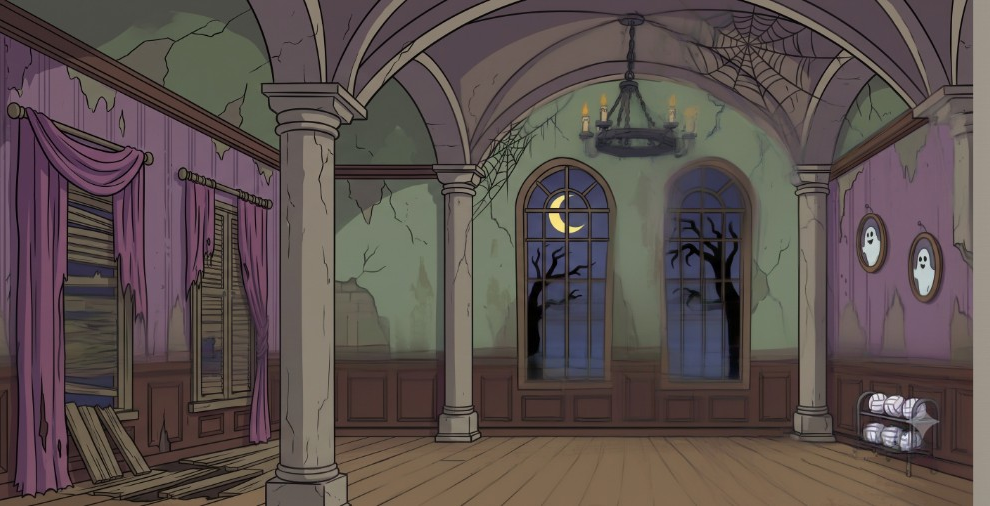
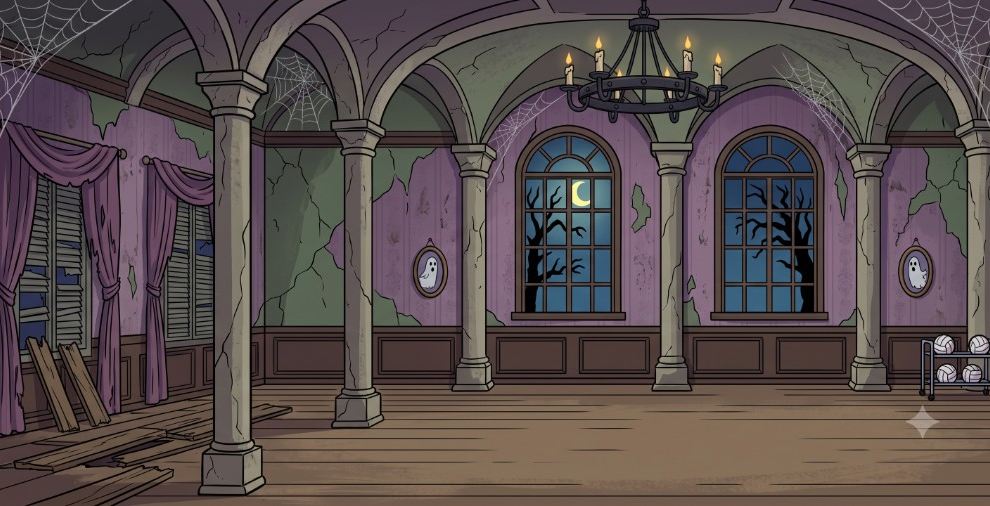
Ajoute Sammy jouable et met à jour le fond Manoir.
Sprites découpés depuis la planche Gemini ; même logique turbo/slip que Scooby. Fond intérieur remplacé (natif).

diff --git a/src/01b-assets.js b/src/01b-assets.js
@@ -7,6 +7,12 @@ const SPRITES = {
   scoobyRun: null,       // pose marche héro (fallback)
   scoobyPounce: null,    // saut / turbo
   scoobyWalk: [],        // cycle de marche 8 frames
+  samyIdle: null,
+  samyIdleSide: null,
+  samyRun: null,
+  samyPounce: null,
+  samyPanic: null,
+  samyWalk: [],
   mysteryVan: null,
   manoirBg: null,        // fond plat Le Manoir Hanté
 };
@@ -37,6 +43,16 @@ function initSprites() {
   SPRITES.scoobyWalk = [];
   for (let i = 0; i < 8; i++) {
     SPRITES.scoobyWalk.push(loadSprite(base + "walk" + i + ".png"));
+  }
+  const samy = "assets/samy/";
+  SPRITES.samyIdle = loadSprite(samy + "idle.png");
+  SPRITES.samyIdleSide = loadSprite(samy + "idle_side.png");
+  SPRITES.samyRun = loadSprite(samy + "run.png");
+  SPRITES.samyPounce = loadSprite(samy + "pounce.png");
+  SPRITES.samyPanic = loadSprite(samy + "panic.png");
+  SPRITES.samyWalk = [];
+  for (let i = 0; i < 8; i++) {
+    SPRITES.samyWalk.push(loadSprite(samy + "walk" + i + ".png"));
   }
 }
 
@@ -200,6 +216,126 @@ function drawScoobyTurboGhosts(b) {
     drawAnchoredSprite(spr, b.x - moveVx * i * 2.2, b.y, dir, 74 - i * 2, {
       alpha: 0.18 * (4 - i) / 3,
       lean: moveVx * 0.02
+    });
+  }
+  return true;
+}
+
+function samyWalkReady() {
+  const w = SPRITES.samyWalk;
+  return w.length > 0 && w.every(spriteReady);
+}
+
+function samyWalkFrame(b) {
+  const frames = SPRITES.samyWalk;
+  if (!samyWalkReady()) {
+    return spriteReady(SPRITES.samyRun) ? SPRITES.samyRun : null;
+  }
+  const idx = Math.floor(Math.abs(b.walkPhase || 0) * 0.18) % frames.length;
+  return frames[idx];
+}
+
+function samySpriteFor(b) {
+  const turbo = b.superT > 0 && b.superKind === "samy";
+  const moveVx = (b.dispVx != null && Math.abs(b.dispVx) > 0.01) ? b.dispVx : (b.vx || 0);
+  const moving = Math.abs(moveVx) > 0.35 || !!b.scramble;
+
+  if (turbo && spriteReady(SPRITES.samyPanic)) return SPRITES.samyPanic;
+  if (!b.onGround) {
+    return spriteReady(SPRITES.samyPounce) ? SPRITES.samyPounce : samyWalkFrame(b);
+  }
+  if (typeof state === "string" && state.indexOf("select") === 0 && !moving) {
+    return spriteReady(SPRITES.samyIdle) ? SPRITES.samyIdle : SPRITES.samyIdleSide;
+  }
+  if (moving) {
+    if (Math.abs(moveVx) > 2.2 && spriteReady(SPRITES.samyRun)) return SPRITES.samyRun;
+    return samyWalkFrame(b);
+  }
+  if (spriteReady(SPRITES.samyIdleSide)) return SPRITES.samyIdleSide;
+  return samyWalkFrame(b) || SPRITES.samyRun;
+}
+
+function isSamyWalkSprite(img) {
+  const w = SPRITES.samyWalk;
+  for (let i = 0; i < w.length; i++) if (w[i] === img) return true;
+  return false;
+}
+
+function drawSamySpriteMaster(b) {
+  const spr = samySpriteFor(b);
+  if (!spriteReady(spr)) return false;
+
+  const s = Math.max(0, b.squash || 0);
+  const bx = b.x, by = b.y;
+  const dir = b.side === 0 ? 1 : -1;
+  const fatigueT = (b.fatigue || 0) / FATIGUE_MAX;
+  const turbo = b.superT > 0 && b.superKind === "samy";
+  const moveVx = (b.dispVx != null && Math.abs(b.dispVx) > 0.01) ? b.dispVx : (b.vx || 0);
+  const moving = Math.abs(moveVx) > 0.35 || !!b.scramble;
+  const now = performance.now() / 1000;
+
+  let bobY = 0, lean = 0, squashX = 1, squashY = 1;
+  const walkSpr = isSamyWalkSprite(spr);
+  let baseH = 88; // Sammy est plus grand / filiforme
+  if (walkSpr) baseH = 90;
+  else if (spr === SPRITES.samyIdleSide || spr === SPRITES.samyRun) baseH = 86;
+  else if (spr === SPRITES.samyPounce || spr === SPRITES.samyPanic) baseH = 92;
+  else if (spr === SPRITES.samyIdle) baseH = 84;
+  baseH -= fatigueT * 5;
+
+  if (!b.onGround || turbo) {
+    const stretch = 1 + Math.max(-0.06, Math.min(0.12, -(b.vy || 0) * 0.01));
+    squashY = stretch;
+    squashX = 1 / Math.sqrt(stretch);
+    lean = Math.max(-0.28, Math.min(0.28, moveVx * 0.03));
+    if (turbo) bobY = Math.sin(now * 20) * 1.8;
+  } else if (moving) {
+    const phase = Math.abs(b.walkPhase || 0) * 0.18;
+    bobY = Math.sin(phase * Math.PI) * 1.4;
+    lean = moveVx * 0.018;
+  } else {
+    bobY = Math.sin(now * 2.6) * 1.0;
+    squashY = 1 + Math.sin(now * 2.6) * 0.012;
+    squashX = 1 / squashY;
+  }
+  if (s > 0) {
+    squashY *= 1 - Math.min(0.22, s * 0.035);
+    squashX *= 1 + Math.min(0.25, s * 0.04);
+  }
+
+  ctx.save();
+  drawShadow(b);
+  drawAnchoredSprite(spr, bx, by, dir, baseH, { bobY, lean, squashX, squashY });
+  if (fatigueT > 0.1) {
+    const nDrops = Math.min(6, Math.ceil(fatigueT * 7));
+    const headY = by - baseH * 0.78 + bobY;
+    for (let d = 0; d < nDrops; d++) {
+      const dropSize = 3.2 + fatigueT * 2.2;
+      const dx = bx + dir * (10 + (d % 3) * 3) * (d % 2 === 0 ? 1 : -0.8);
+      const dy = headY + Math.floor(d / 2) * 7 + Math.sin(now * 9 + d) * 1.5;
+      ctx.fillStyle = "rgba(140,205,255," + (0.6 + fatigueT * 0.25).toFixed(2) + ")";
+      ctx.beginPath();
+      ctx.moveTo(dx, dy - dropSize);
+      ctx.quadraticCurveTo(dx + dropSize * 0.6, dy, dx, dy + dropSize);
+      ctx.quadraticCurveTo(dx - dropSize * 0.6, dy, dx, dy - dropSize);
+      ctx.fill();
+    }
+  }
+  ctx.restore();
+  return true;
+}
+
+function drawSamyTurboGhosts(b) {
+  const spr = spriteReady(SPRITES.samyPanic) ? SPRITES.samyPanic
+    : (spriteReady(SPRITES.samyRun) ? SPRITES.samyRun
+      : (samyWalkReady() ? SPRITES.samyWalk[0] : null));
+  if (!spriteReady(spr)) return false;
+  const dir = b.side === 0 ? 1 : -1;
+  const moveVx = b.dispVx != null ? b.dispVx : (b.vx || 0);
+  for (let i = 1; i <= 3; i++) {
+    drawAnchoredSprite(spr, b.x - moveVx * i * 2.4, b.y, dir, 80 - i * 2, {
+      alpha: 0.18 * (4 - i) / 3,
+      lean: moveVx * 0.025
     });
   }
   return true;

diff --git a/src/05-animals.js b/src/05-animals.js
@@ -14,13 +14,14 @@ function drawAnimal(b) {
   const key = A.key;
   drawSuperAura(b);                         // halo derrière l'animal
   // pendant Turbo-bond / Scooby Snack : traînée d'images fantômes
-  if (b.superT > 0 && (key === "lapin" || key === "scooby")) drawTurboGhosts(b, key);
+  if (b.superT > 0 && (key === "lapin" || key === "scooby" || key === "samy")) drawTurboGhosts(b, key);
   if (key === "oiseau") drawOiseau(b);
   else if (key === "grenouille") drawGrenouille(b);
   else if (key === "manchot") drawManchot(b);
   else if (key === "chibre") drawChibre(b);
   else if (key === "chneck") drawChneck(b);
   else if (key === "scooby") drawScooby(b);
+  else if (key === "samy") drawSamy(b);
   else drawLapin(b);
   drawSuperOverlay(b, key);                 // langue-grappin, charge de smash…
   drawEmote(b);                             // bulle d'émotion
@@ -43,6 +44,7 @@ function faceMood(b) {
   const key = animOf(b).key;
   if (key === "lapin") return "sad";
   if (key === "scooby") return "shock"; // perpétuellement inquiet (Ruh-roh !)
+  if (key === "samy") return "shock"; // Zoinks !
   if (key === "manchot") return "fierce";
   if (key === "oiseau") return "shock";
   if (key === "grenouille") return "happy";
@@ -179,6 +181,9 @@ function drawSuperAura(b) {
 
 function drawTurboGhosts(b, key) {
   if (key === "scooby" && typeof drawScoobyTurboGhosts === "function" && drawScoobyTurboGhosts(b)) {
+    return;
+  }
+  if (key === "samy" && typeof drawSamyTurboGhosts === "function" && drawSamyTurboGhosts(b)) {
     return;
   }
   ctx.save();
@@ -1361,6 +1366,52 @@ function drawLapin(b) {
 function drawScooby(b) {
   if (typeof drawScoobySpriteMaster === "function" && drawScoobySpriteMaster(b)) return;
   drawScoobyCanvas(b);
+}
+
+// Sammy : sprites PNG — sinon silhouette canvas filiforme
+function drawSamy(b) {
+  if (typeof drawSamySpriteMaster === "function" && drawSamySpriteMaster(b)) return;
+  drawSamyCanvas(b);
+}
+
+function drawSamyCanvas(b) {
+  const s = Math.max(0, b.squash);
+  const bx = b.x, by = b.y;
+  const dir = b.side === 0 ? 1 : -1;
+  const moveVx = (b.dispVx != null) ? b.dispVx : (b.vx || 0);
+  const gait = Math.sin((b.walkPhase || 0) * 1.3);
+  const bob = b.onGround && Math.abs(moveVx) > 0.3 ? gait * 3 : Math.sin(performance.now() / 240) * 1.2;
+  ctx.save();
+  drawShadow(b);
+  ctx.translate(bx, by + bob);
+  ctx.rotate(Math.max(-0.35, Math.min(0.35, moveVx * 0.04)) * dir);
+  // jambes
+  ctx.strokeStyle = "#3a2a1a"; ctx.lineWidth = 5; ctx.lineCap = "round";
+  const leg = b.onGround && Math.abs(moveVx) > 0.3 ? gait * 10 : 0;
+  ctx.beginPath(); ctx.moveTo(-6, -18 + s); ctx.lineTo(-8 - leg, 0); ctx.stroke();
+  ctx.beginPath(); ctx.moveTo(6, -18 + s); ctx.lineTo(8 + leg, 0); ctx.stroke();
+  // short brun
+  ctx.fillStyle = "#7a4a2a";
+  ctx.fillRect(-14, -40 + s, 28, 22);
+  // t-shirt vert
+  ctx.fillStyle = b.color || "#6b8f3c";
+  ctx.beginPath();
+  ctx.moveTo(-16, -78 + s); ctx.lineTo(-18, -40 + s); ctx.lineTo(18, -40 + s); ctx.lineTo(16, -78 + s);
+  ctx.closePath(); ctx.fill();
+  // bras
+  ctx.strokeStyle = "#e7c4a0"; ctx.lineWidth = 4;
+  const arm = b.onGround && Math.abs(moveVx) > 0.3 ? -gait * 12 : 4;
+  ctx.beginPath(); ctx.moveTo(-14, -70 + s); ctx.lineTo(-22, -50 + s + arm); ctx.stroke();
+  ctx.beginPath(); ctx.moveTo(14, -70 + s); ctx.lineTo(22, -50 + s - arm); ctx.stroke();
+  // tête
+  ctx.fillStyle = "#e7c4a0";
+  ctx.beginPath(); ctx.ellipse(0, -92 + s, 12, 14, 0, 0, Math.PI * 2); ctx.fill();
+  // cheveux
+  ctx.fillStyle = "#6b4a2a";
+  ctx.beginPath(); ctx.ellipse(0, -100 + s, 14, 10, 0, Math.PI, 0); ctx.fill();
+  ctx.fillStyle = "#2a2a2a";
+  ctx.beginPath(); ctx.arc(dir * 4, -94 + s, 2, 0, Math.PI * 2); ctx.fill();
+  ctx.restore();
 }
 
 function drawScoobyCanvas(b) {

diff --git a/src/04-state.js b/src/04-state.js
@@ -85,6 +85,15 @@ const ANIMALS = [
     slip: true, tired: true,
     trait: "Lâche et goofy : dérape à l'arrêt, mais panique très vite.",
     superName: "Scooby Snack", superDesc: "Peur bleue : vitesse décuplée et sauts illimités un instant."
+  },
+  {
+    key: "samy", name: "Sammy",
+    color: "#6b8f3c", darkColor: "#4a6a28",   // vert t-shirt Sammy
+    stats: { vitesse: 5, detente: 3, puissance: 2, controle: 2 },
+    speed: 1.25, jump: 1.05, power: 0.85, control: 0.7,
+    slip: true, tired: true,
+    trait: "Grand échalas nerveux : rapide, glisse, et panique encore plus vite.",
+    superName: "Zoinks !", superDesc: "Peur bleue : vitesse décuplée et sauts illimités un instant."
   }
 ];
 function animOf(b) { return ANIMALS[b.animal]; }
@@ -226,10 +235,11 @@ const battle = {
 //   Monsieur Chibre → "Coup de boutoir" : la frappe suivante part en boulet rasant
 //   Madame Schneck → "Retombée de chat" : sauts illimités + vol plané (gravité réduite)
 //   Scooby → "Scooby Snack" : panique turbo (comme le lapin) pendant ~1,5 s
+//   Sammy → "Zoinks !" : panique turbo (comme Scooby) pendant ~1,5 s
 const SUPER_NEED = 3;
 const streak = [0, 0];        // points d'affilée par camp
 const superCharge = [0, 0];   // 0 = vide, 1 = super prête
-const SUPER_DUR = { oiseau: 40, grenouille: 24, manchot: 60, lapin: 100, chibre: 55, chneck: 110, scooby: 90 };
+const SUPER_DUR = { oiseau: 40, grenouille: 24, manchot: 60, lapin: 100, chibre: 55, chneck: 110, scooby: 90, samy: 90 };
 let superFlash = "";          // libellé "SUPER !" affiché brièvement
 let superFlashT = 0;
 
@@ -283,7 +293,7 @@ class Blob {
     if (this.hasBall) { this.vx = 0; if (!this.onGround) this.vy += GRAV_BLOB; this.y += this.vy; if (this.y >= GROUND_Y) { this.y = GROUND_Y; this.vy = 0; this.onGround = true; } return; }
 
     const grip = groundGrip(); // 1 par temps sec, <1 sur sol détrempé
-    const turbo = (a.key === "lapin" || a.key === "scooby") && this.superT > 0; // Turbo-bond / Scooby Snack
+    const turbo = (a.key === "lapin" || a.key === "scooby" || a.key === "samy") && this.superT > 0;
     const cat = a.key === "chneck" && this.superT > 0;  // Retombée de chat : vol plané
     this.vx = 0;
     const sp = BLOB_SPEED * this.speedMul * a.speed * grip * (turbo ? 1.7 : 1);
@@ -305,13 +315,13 @@ class Blob {
       // le lapin pédale frénétiquement en permanence dès qu'il court (pas
       // seulement quand la vitesse réelle est en retard sur la consigne) :
       // c'est sa signature, Turbo-Jeannot ne trottine jamais tranquillement.
-      // Scooby : encore plus paniqué (galop cartoon + poussière).
+      // Scooby / Sammy : encore plus paniqués (galop cartoon + poussière).
       const scrambling = a.slip;
-      const scoobyPanic = a.key === "scooby";
+      const gangPanic = a.key === "scooby" || a.key === "samy";
       this.scramble = scrambling ? 1 : 0;
-      this.walkPhase += scrambling ? (scoobyPanic ? 1.15 : 0.9) : 0.3;
-      if (Math.random() < (scrambling ? (scoobyPanic ? 0.48 : 0.35) : 0.1)) {
-        spawnSand(this.x - Math.sign(this.vx || moveVx) * 12, GROUND_Y, scoobyPanic ? 2 : 1);
+      this.walkPhase += scrambling ? (gangPanic ? 1.15 : 0.9) : 0.3;
+      if (Math.random() < (scrambling ? (gangPanic ? 0.48 : 0.35) : 0.1)) {
+        spawnSand(this.x - Math.sign(this.vx || moveVx) * 12, GROUND_Y, gangPanic ? 2 : 1);
       }
     } else {
       this.scramble = 0;

diff --git a/src/10-scenery.js b/src/10-scenery.js
@@ -157,6 +157,19 @@ function drawCrowdCritter(species, x, hy, col, excited, glow) {
       ctx.fillStyle = "#f6c945";
       ctx.beginPath(); ctx.arc(x, hy + 5, 1.4, 0, Math.PI * 2); ctx.fill();
     }
+  } else if (species === "samy") {
+    // petit Sammy : t-shirt vert + cheveux en bataille
+    ctx.fillStyle = col;
+    ctx.fillRect(x - 3.5, hy - 1, 7, 9);
+    ctx.fillStyle = "#e7c4a0";
+    ctx.beginPath(); ctx.arc(x, hy - 4, 3.2, 0, Math.PI * 2); ctx.fill();
+    ctx.fillStyle = "#6b4a2a";
+    ctx.beginPath(); ctx.ellipse(x, hy - 7, 4, 2.8, 0, Math.PI, 0); ctx.fill();
+    if (excited) {
+      ctx.fillStyle = "#fff";
+      ctx.beginPath(); ctx.arc(x - 1, hy - 4, 0.8, 0, Math.PI * 2); ctx.fill();
+      ctx.beginPath(); ctx.arc(x + 1.5, hy - 4, 0.8, 0, Math.PI * 2); ctx.fill();
+    }
   } else if (species === "demon") {
     // petit diablotin : corps teinté, cornes, yeux qui brillent dans le noir
     ctx.fillStyle = col;

diff --git a/tests/game.test.js b/tests/game.test.js
@@ -329,6 +329,18 @@ test("terrain Manoir Hanté lié à Scooby", () => {
   assert.ok(typeof g.drawBgManoir === "function", "drawBgManoir défini");
 });
 
+test("Sammy : animal visible avec sprites et super turbo", () => {
+  const g = loadGame();
+  const samy = g.ANIMALS.find(a => a.key === "samy");
+  assert.ok(samy, "entrée ANIMALS samy");
+  assert.strictEqual(samy.hidden, undefined);
+  assert.ok(samy.slip && samy.tired, "traits slip + tired");
+  assert.ok(typeof g.drawSamy === "function", "drawSamy défini");
+  assert.ok(g.SPRITES.samyRun, "sprite run");
+  assert.ok(Array.isArray(g.SPRITES.samyWalk) && g.SPRITES.samyWalk.length === 8, "cycle walk 8");
+  assert.ok(g.SUPER_DUR.samy > 0, "durée super");
+});
+
 test("soft ownership : pack/applyBallState round-trip", () => {
   const g = loadGame();
   g.newGame(2);

diff --git a/src/02-audio.js b/src/02-audio.js
@@ -132,6 +132,11 @@ function animalHitSound(a) {
       beep(320, 0.12, "sawtooth", 0.14, 0.08, 520);
       beep(140, 0.1, "triangle", 0.1, 0.16, 100);
       break;
+    case "samy":       // "Zoinks !" : cri aigu qui dévisse
+      beep(420, 0.08, "sawtooth", 0.14, 0, 680);
+      beep(680, 0.12, "sawtooth", 0.12, 0.07, 320);
+      beep(240, 0.08, "triangle", 0.1, 0.14, 160);
+      break;
     default:           // lapin : gros "BOI-OING" élastique (monte puis redescend)
       beep(240, 0.14, "sine", 0.24, 0, 760);
       beep(760, 0.18, "sine", 0.2, 0.09, 240);

diff --git a/tests/_load.js b/tests/_load.js
@@ -63,6 +63,9 @@ const EPILOGUE = `
   spriteReady: typeof spriteReady === "function" ? spriteReady : () => false,
   drawScoobySpriteMaster: typeof drawScoobySpriteMaster === "function" ? drawScoobySpriteMaster : null,
   drawScooby: typeof drawScooby === "function" ? drawScooby : null,
+  drawSamySpriteMaster: typeof drawSamySpriteMaster === "function" ? drawSamySpriteMaster : null,
+  drawSamy: typeof drawSamy === "function" ? drawSamy : null,
+  SUPER_DUR: typeof SUPER_DUR !== "undefined" ? SUPER_DUR : {},
   drawBgManoir: typeof drawBgManoir === "function" ? drawBgManoir : null,
   consts: { W, H, NET_X, NET_W, NET_TOP, GROUND_Y, BALL_R, MAX_BALL_SPEED, GUEST_BALL_MARGIN }
 };`;

diff --git a/src/07-scoring.js b/src/07-scoring.js
@@ -29,7 +29,7 @@ function awardPoint(side, reason) {
     if (key === "oiseau" && b.molt < MOLT_MAX) {
       b.molt = MOLT_MAX;
       if (!noFx) spawnFeathers(b.x, b.y - 55, b.color, 22);
-    } else if (key === "lapin" || key === "scooby") {
+    } else if (key === "lapin" || key === "scooby" || key === "samy") {
       b.fatigue = FATIGUE_MAX;
     } else if (key === "manchot") {
       b.anger = ANGER_MAX;

diff --git a/src/13-simulation.js b/src/13-simulation.js
@@ -137,6 +137,7 @@ function superSound(key) {
   if (key === "oiseau")  beep(1500, 0.12, "square", 0.1, 0.14, 2100);
   if (key === "lapin")   beep(300, 0.22, "sine", 0.14, 0.05, 950);
   if (key === "scooby")  { beep(220, 0.1, "sawtooth", 0.14, 0, 480); beep(480, 0.18, "sine", 0.13, 0.08, 180); }
+  if (key === "samy")    { beep(300, 0.08, "sawtooth", 0.12, 0, 520); beep(560, 0.16, "sine", 0.12, 0.07, 220); }
   if (key === "grenouille") beep(240, 0.16, "sawtooth", 0.15, 0.1, 130);
   if (key === "chibre")  beep(110, 0.26, "sine", 0.16, 0.05, 700);
   if (key === "chneck")  { beep(700, 0.14, "sine", 0.12, 0.04, 1050); beep(520, 0.16, "triangle", 0.1, 0.12, 380); }